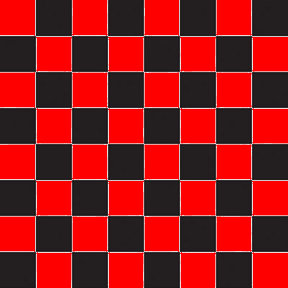
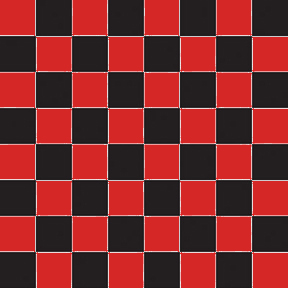
Added in some stylesheets, tweaked the images, and played around with the JS capturing

diff --git a/js/board.js b/js/board.js
@@ -345,12 +345,13 @@ function initGame(canvasElement, moveCountElement) {
     if (!canvasElement) {
         canvasElement = document.createElement("canvas");
     	canvasElement.id = "checkers_canvas";
-    	document.body.appendChild(canvasElement);
+        div = document.getElementById("border");
+    	div.appendChild(canvasElement);
     }
-    if (!moveCountElement) {
-        moveCountElement = document.createElement("p");
-	document.body.appendChild(moveCountElement);
-    }
+    // if (!moveCountElement) {
+    //     moveCountElement = document.createElement("p");
+	//     document.body.appendChild(moveCountElement);
+    // }
     gCanvasElement = canvasElement;
     gCanvasElement.width = kPixelWidth;
     gCanvasElement.height = kPixelHeight;

diff --git a/css/conform.css b/css/conform.css
@@ -8,8 +8,11 @@ html {
 }
 
 body {
-	margin:auto auto;
+	
+	margin: 0px auto;
+	text-align: center;
 }
+
 
 #checkers_canvas {
 	background-image:url('');

diff --git a/index.php b/index.php
@@ -74,15 +74,41 @@
 
 </head>
 	<body>
-		<h1>English Draughts</h1>
-		<p id="moves">Moves: <span id="movecount"></span></p>
-		<script>initGame(null,document.getElementById('movecount'));</script>
+        <br />
+		<h1>Ye Olde English Draughts</h1>
+		<!-- <p id="moves">Moves: <span id="movecount"></span></p> -->
+        <div id="border" >
+	       <script>initGame(null,document.getElementById('movecount'));</script>
+        </div>
+        <div id="stats">
+
+        <div>
 	</body>
     <style>
+        /**/
+        #border {
+            width:  400px;
+            /*height: 450px;*/
+            margin: 0px auto;
+        }
+
+        /*Style goes at bottom so the background is applied */
         #checkers_canvas {
             background-image:url('img/checkerboard.jpg');
             background-size: cover;
-            
+            margin: auto auto;
+            border-style: solid;
+            border-width: 10px;
+        }
+
+        body {
+            background-image:url("img/background.jpg");
+            background-size: 100%;
+        }
+
+        h1 {
+            font-family: "Palatino";
+            font-size: 48px;
         }
 
     </style>
